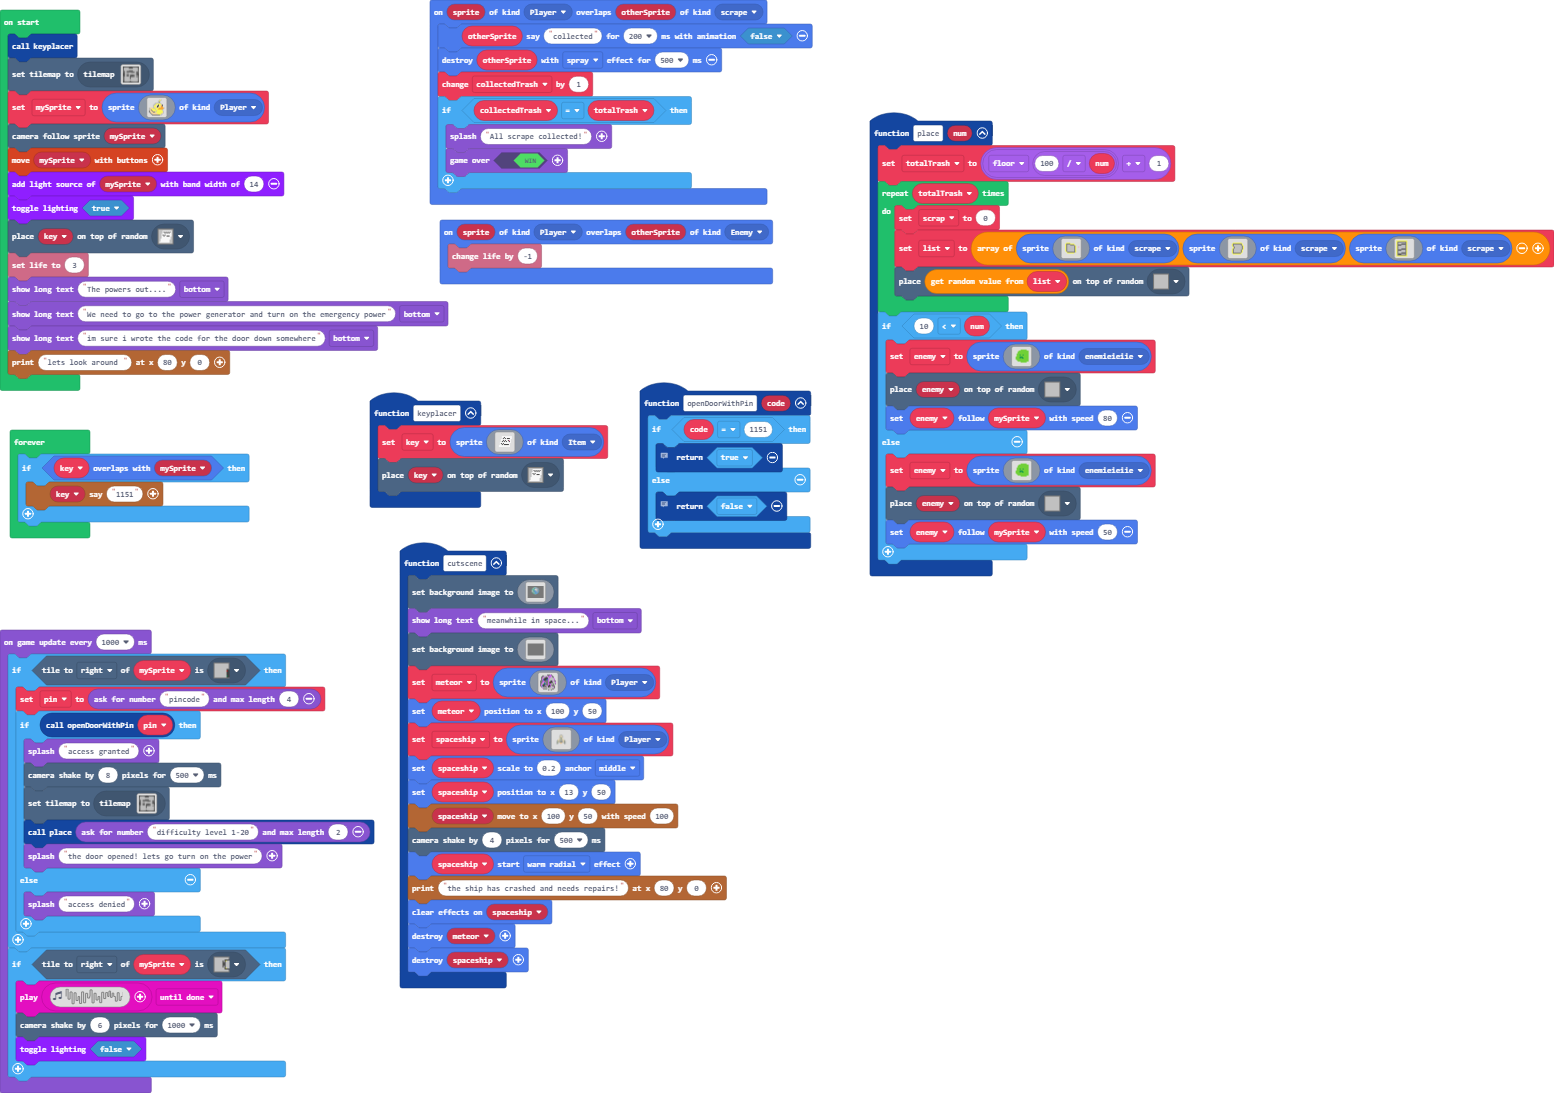
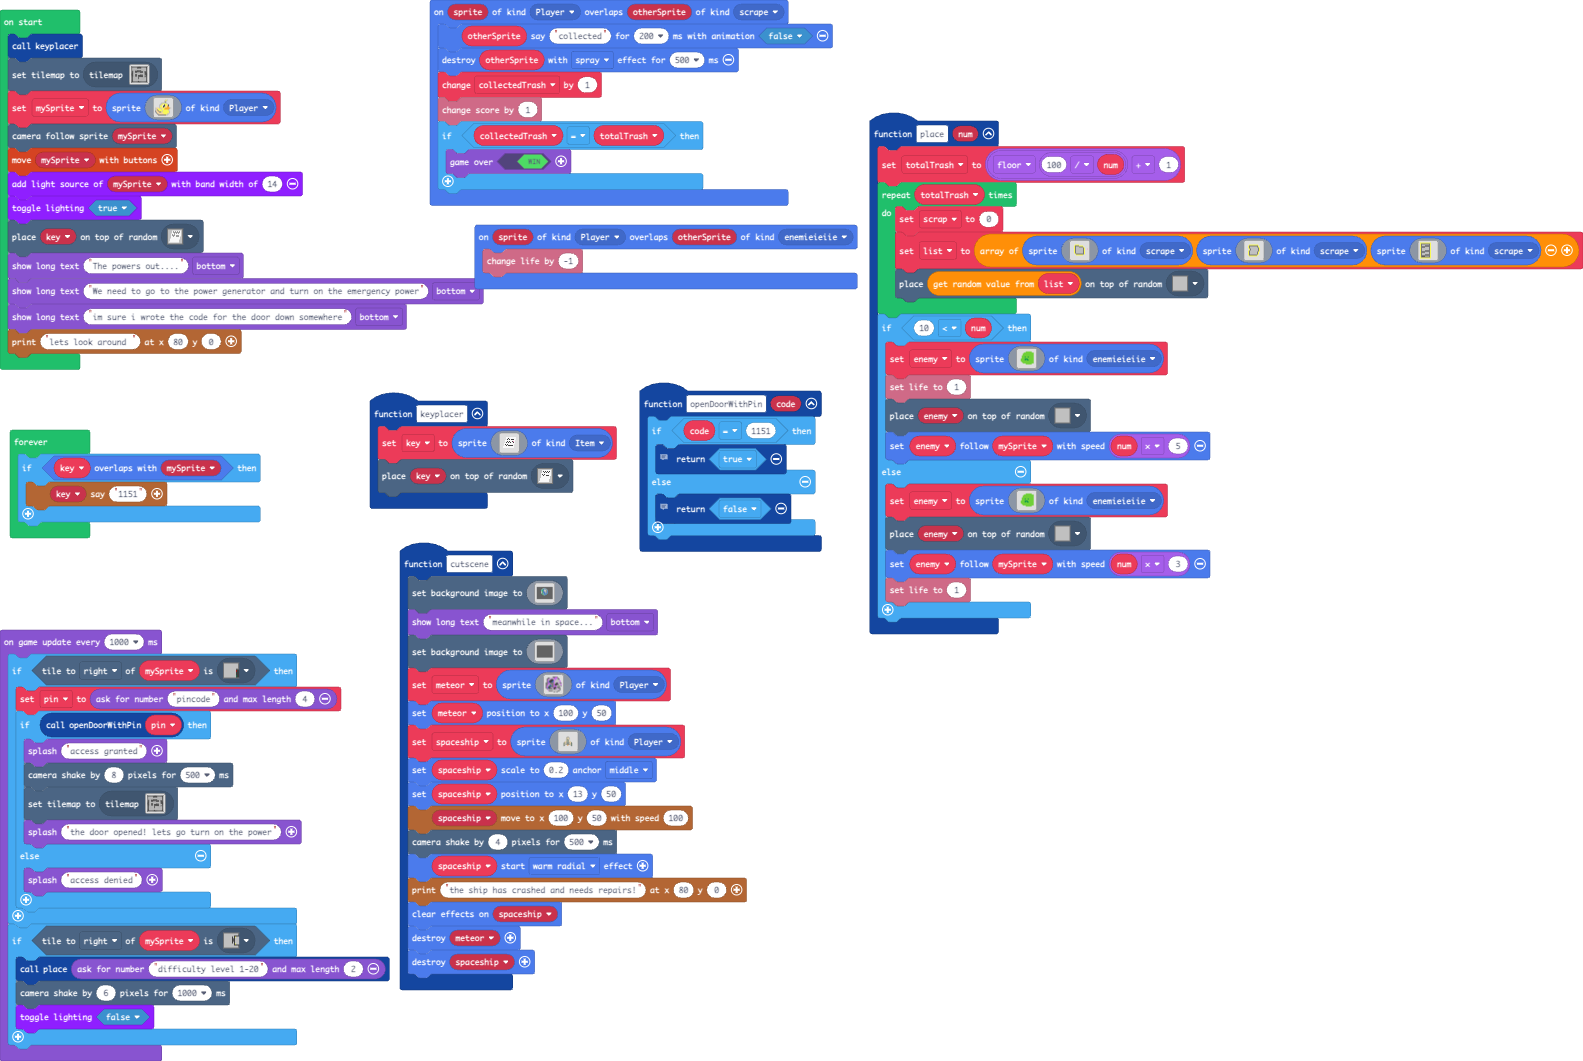
Update main.blocks, main.ts, tilemap.g.jres, tilemap.g.ts

Changed region(s): [[0.0, 0.0, 1.0, 1.0], [0.1544, 0.9642, 0.1853, 0.9953]]

diff --git a/tilemap.g.ts b/tilemap.g.ts
@@ -16,6 +16,8 @@ namespace myTiles {
     export const tile6 = image.ofBuffer(hex``);
     //% fixedInstance jres blockIdentity=images._tile
     export const tile4 = image.ofBuffer(hex``);
+    //% fixedInstance jres blockIdentity=images._tile
+    export const tile7 = image.ofBuffer(hex``);
 
     helpers._registerFactory("tilemap", function(name: string) {
         switch(helpers.stringTrim(name)) {
@@ -128,39 +130,6 @@ namespace myTiles {
 . . . . . . . . . . . . . . . . 
 . . . . . . . . . . . . . . . . 
 `, [myTiles.transparency16], TileScale.Sixteen);
-            case "lemap":
[1 lines of base64/hex data omitted]
-..............................
-.22222222222......22222222222.
-.2.........2......2.........2.
-.2.........22222222.........2.
-.2..........................2.
-.2..........................2.
-.2..........................2.
-.2.........22222222.........2.
-.222...22222......2.........2.
-...2...2..........2222...2222.
-...2...2..2222222....2...2....
-...2...2222.....222222...2....
-...2.....................2....
-...2.....................2....
-...2...2222..............2....
-...2...2..2.....222222...2222.
-...2...2..2..222222222......2.
-...2...2..2..222222222......2.
-...2...2222..222222222......2.
-..2..........222222222...2222.
-..2..........22.............2.
-..2..........22.............2.
-..2..........22.............2.
-..2..........22.............2.
-..2.........................2.
-..2.........................2.
-..2.........................2.
-..2..........22.............2.
-...2222222222..22222222222222.
-..............................
-`, [myTiles.transparency16,myTiles.tile5,myTiles.tile8,myTiles.tile1,myTiles.tile4], TileScale.Sixteen);
             case "level7":
             case "level7":return tiles.createTilemap(hex`1000100000000000000000000000000000000000000000000000000000000000000000000000000000000000000000000000000000000000000000000000000000000000000000000000000000000000000000000000000000000000000000000000000000000000000000000000000000000000000000000000000000000000000000000000000000000000000000000000000000000000000000000000000000000000000000000000000000000000000000000000000000000000000000000000000000000000000000000000000000000000000000000000000000000000000000000000000000000000000000000000000000000000000000000000000000000000`, img`
 . . . . . . . . . . . . . . . . 
@@ -479,6 +448,39 @@ namespace myTiles {
 . . . . . . . . . . . . . . . . 
 . . . . . . . . . . . . . . . . 
 `, [myTiles.transparency16], TileScale.Sixteen);
+            case "lemap":
[1 lines of base64/hex data omitted]
+..............................
+.22222222222......22222222222.
+.2.........2......2.........2.
+.2.........22222222.........2.
+.2..........................2.
+.2..........................2.
+.2..........................2.
+.2.........22222222.........2.
+.222...22222......2.........2.
+...2...2..........2222...2222.
+...2...2..2222222....2...2....
+...2...2222.....222222...2....
+...2.....................2....
+...2.....................2....
+...2...2222..............2....
+...2...2..2.....222222...2222.
+...2...2..2..222222222......2.
+...2...2..2..222222222......2.
+...2...2222..222222222......2.
+..2..........222222222...2222.
+..2..........22.............2.
+..2..........22.............2.
+..2..........22.............2.
+..2..........22.............2.
+..2.........................2.
+..2.........................2.
+..2.........................2.
+..2..........22.............2.
+...2222222222..22222222222222.
+..............................
+`, [myTiles.transparency16,myTiles.tile5,myTiles.tile8,myTiles.tile1,myTiles.tile4,myTiles.tile7], TileScale.Sixteen);
         }
         return null;
     })
@@ -500,6 +502,8 @@ namespace myTiles {
             case "tile6":return tile6;
             case "myTile0":
             case "tile4":return tile4;
+            case "Tile1":
+            case "tile7":return tile7;
         }
         return null;
     })

diff --git a/main.ts b/main.ts
@@ -25,12 +25,14 @@ function place (num: number) {
     }
     if (10 < num) {
         enemy = sprites.create(assets.image`alien`, SpriteKind.enemieieiie)
+        info.setLife(1)
         tiles.placeOnRandomTile(enemy, assets.tile`Tile3`)
-        enemy.follow(mySprite, 80)
+        enemy.follow(mySprite, num * 5)
     } else {
         enemy = sprites.create(assets.image`alien`, SpriteKind.enemieieiie)
         tiles.placeOnRandomTile(enemy, assets.tile`Tile3`)
-        enemy.follow(mySprite, 50)
+        enemy.follow(mySprite, num * 3)
+        info.setLife(1)
     }
 }
 function keyplacer () {
@@ -41,8 +43,8 @@ sprites.onOverlap(SpriteKind.Player, SpriteKind.scrape, function (sprite, otherS
     otherSprite.sayText("collected", 200, false)
     sprites.destroy(otherSprite, effects.spray, 500)
     collectedTrash += 1
+    info.changeScoreBy(1)
     if (collectedTrash == totalTrash) {
-        game.splash("All scrape collected!")
         game.over(true)
     }
 })
@@ -63,7 +65,7 @@ function cutscene () {
     sprites.destroy(meteor)
     sprites.destroy(spaceship)
 }
-sprites.onOverlap(SpriteKind.Player, SpriteKind.Enemy, function (sprite, otherSprite) {
+sprites.onOverlap(SpriteKind.Player, SpriteKind.enemieieiie, function (sprite, otherSprite) {
     info.changeLifeBy(-1)
 })
 let pin = 0
@@ -84,7 +86,6 @@ controller.moveSprite(mySprite)
 multilights.addLightSource(mySprite, 14)
 multilights.toggleLighting(true)
 tiles.placeOnRandomTile(key, assets.tile`Tile0`)
-info.setLife(3)
 game.showLongText("The powers out....", DialogLayout.Bottom)
 game.showLongText("We need to go to the power generator and turn on the emergency power", DialogLayout.Bottom)
 game.showLongText("im sure i wrote the code for the door down somewhere", DialogLayout.Bottom)
@@ -96,14 +97,13 @@ game.onUpdateInterval(1000, function () {
             game.splash("access granted")
             scene.cameraShake(8, 500)
             tiles.setCurrentTilemap(tilemap`lemap`)
-            place(game.askForNumber("difficulty level 1-20", 2))
             game.splash("the door opened! lets go turn on the power")
         } else {
             game.splash("access denied")
         }
     }
     if (mySprite.tileKindAt(TileDirection.Right, assets.tile`myTile0`)) {
-        music.play(music.createSoundEffect(WaveShape.Noise, 794, 1599, 255, 104, 500, SoundExpressionEffect.None, InterpolationCurve.Linear), music.PlaybackMode.UntilDone)
+        place(game.askForNumber("difficulty level 1-20", 2))
         scene.cameraShake(6, 1000)
         multilights.toggleLighting(false)
     }
